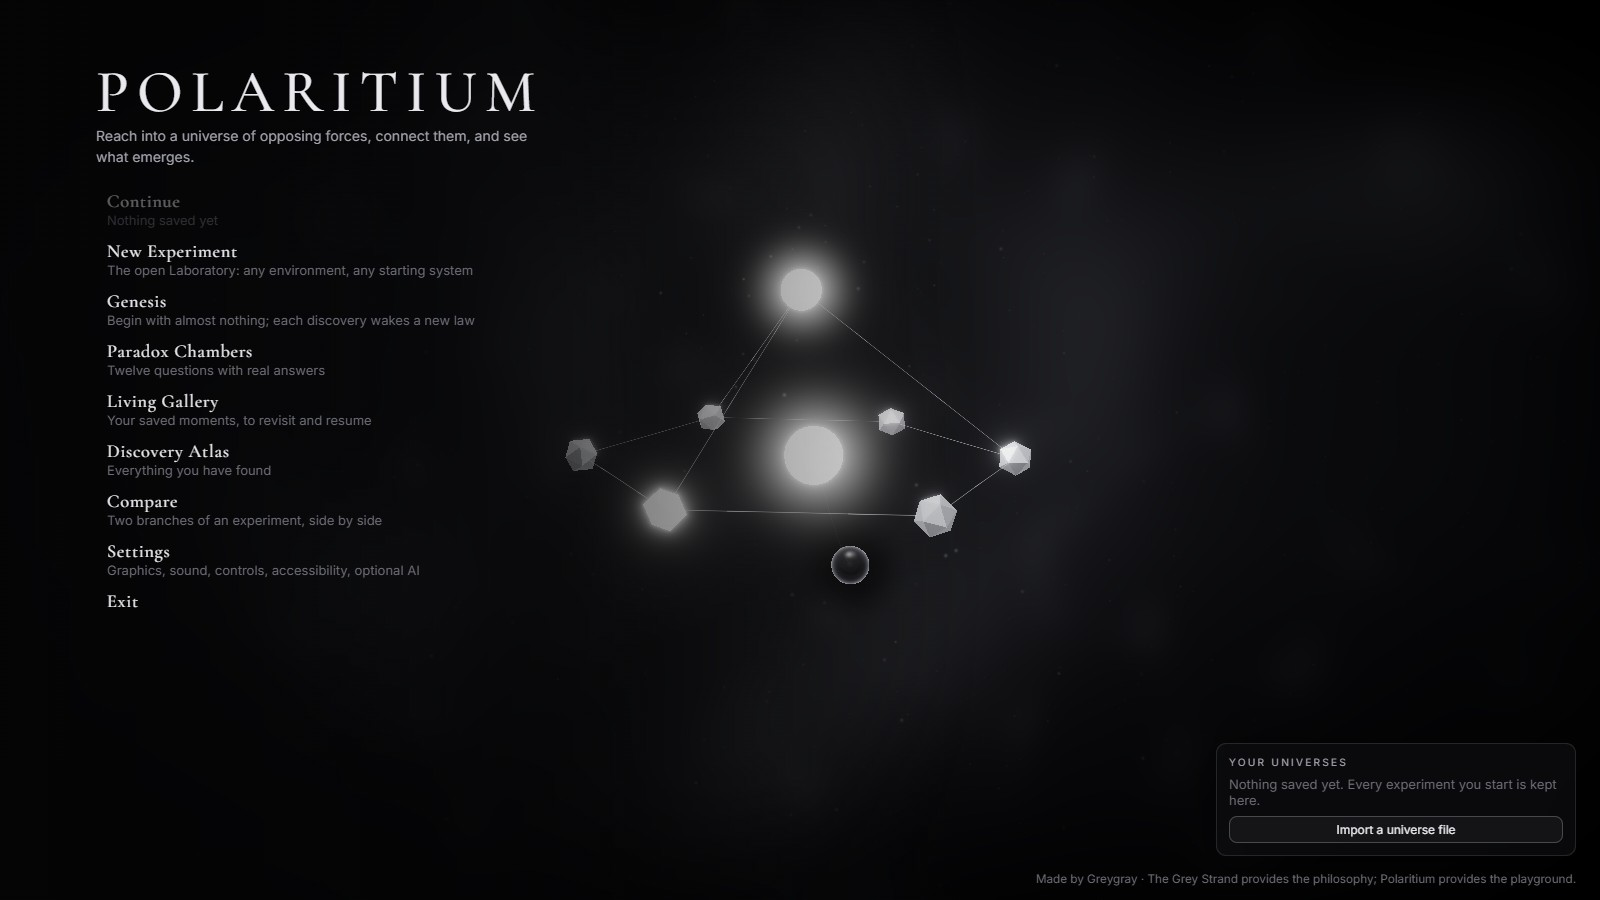
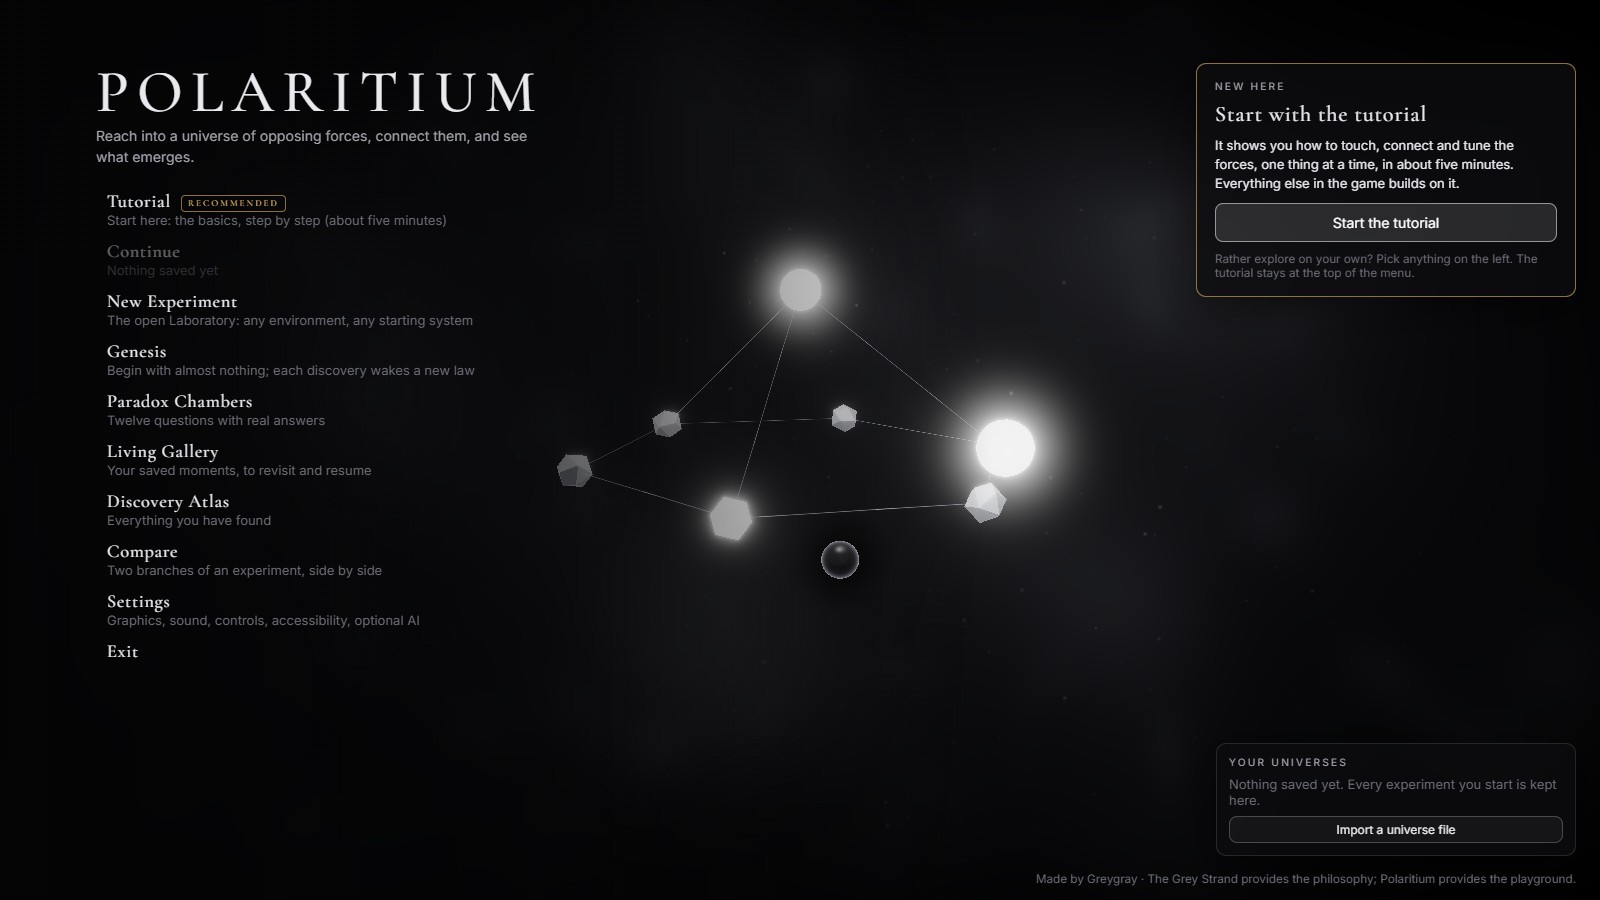
1.1.0: the tutorial, offered first; chambers marked Start here

Changed region(s): [[0.0625, 0.2178, 0.2812, 0.7467], [0.3438, 0.4044, 0.6875, 0.6533], [0.75, 0.1244, 1.0, 0.3111]]

diff --git a/README.md b/README.md
@@ -2,13 +2,19 @@
 
 ### A universe of opposing forces you can touch.
 
-![The main menu: a small constellation of light and grey joined by strands, floating in the dark](screenshots/01-menu.jpg)
+![The main menu: a small constellation of light and grey joined by strands, floating in the dark, with the tutorial offered first to a new player](screenshots/01-menu.jpg)
 
 Polaritium is a 3D game for Windows. Its universe is made of one strange, made-up medium that shows itself three ways: **light**, which gives energy out, **dark**, which draws energy in and holds it, and **grey**, which sits between things and passes energy, rhythm and change from one to the other. None of them is good or bad.
 
 You reach in and touch them. Connect a light to a dark and energy flows along the strand. Tune two things to nearby rhythms and they fall into step. Push a strand too hard and it snaps. Nothing is scripted: rings, membranes, crystals and small living forms appear only when the conditions allow them, and then they keep going on their own.
 
 The whole game asks one question: *what happens if I try this?*
+
+## Start here: the tutorial
+
+A new player is offered a five-minute tutorial before anything else. It teaches one idea at a time in a small practice universe: look around, touch the light, move it, see the connections, tune a rhythm, send a wave, stop time, make something new, connect it, and let it run. Each step hands over only the tool it needs, waits for the player to really do it, and shows a tick when it worked. If a step takes a while, it offers an easier way and a way past. It can be left at any point and played again later.
+
+![The tutorial's first step: a light and a dark in the Void Cradle, with the tutorial card explaining what they are](screenshots/12-tutorial.jpg)
 
 ## What you can do
 
@@ -62,9 +68,9 @@ Each place can start empty or with one of seven starting systems, from a single 
 
 ## Twelve Paradox Chambers
 
-Twelve puzzles, each a question with more than one answer: make the light circle the dark, keep a crystal whole while the drummer beats, bring six mediators into one rhythm, carry a ring across the Threshold. A chamber checks its goal from the simulation itself, so any way that truly works counts.
+Twelve puzzles, each a question with more than one answer: make the light circle the dark, keep a crystal whole while the drummer beats, bring six mediators into one rhythm, carry a ring across the Threshold. A chamber checks its goal from the simulation itself, so any way that truly works counts. The first unsolved one is marked *Start here*, each chamber lists the tools it uses, and its Hint button offers a nudge when nothing has moved for a while.
 
-![The Paradox Chambers: twelve cards, each with its question and the place it is set](screenshots/07-paradox-chambers.png)
+![The Paradox Chambers: twelve cards, each with its question and the place it is set, the first marked Start here](screenshots/07-paradox-chambers.png)
 
 ## Optional AI, with a hard limit
 
@@ -88,7 +94,7 @@ Every AI path is tested against a pretend Claude. No paid request has been made 
 
 ## Where it stands
 
-Version 1.0.0, 17 October 2026. It installs, runs, saves and uninstalls cleanly, and passes 127 unit and integration tests, 43 interface tests in a headless browser, 6 desktop-app tests and a 26-step installer check. Not yet checked: a real Claude request, and a first listen to the sound, which is synthesized live from the simulation, so every concentration has a voice at its own rhythm.
+Version 1.1.0, 25 October 2026, which adds the tutorial. It installs, runs, saves and uninstalls cleanly, and passes 127 unit and integration tests, interface tests in a headless browser (including the whole tutorial played through by mouse and keyboard), 6 desktop-app tests and a 26-step installer check. Not yet checked: a real Claude request, and a first listen to the sound, which is synthesized live from the simulation, so every concentration has a voice at its own rhythm.
 
 The source code is private. This page shows what the game is and what works.
 
